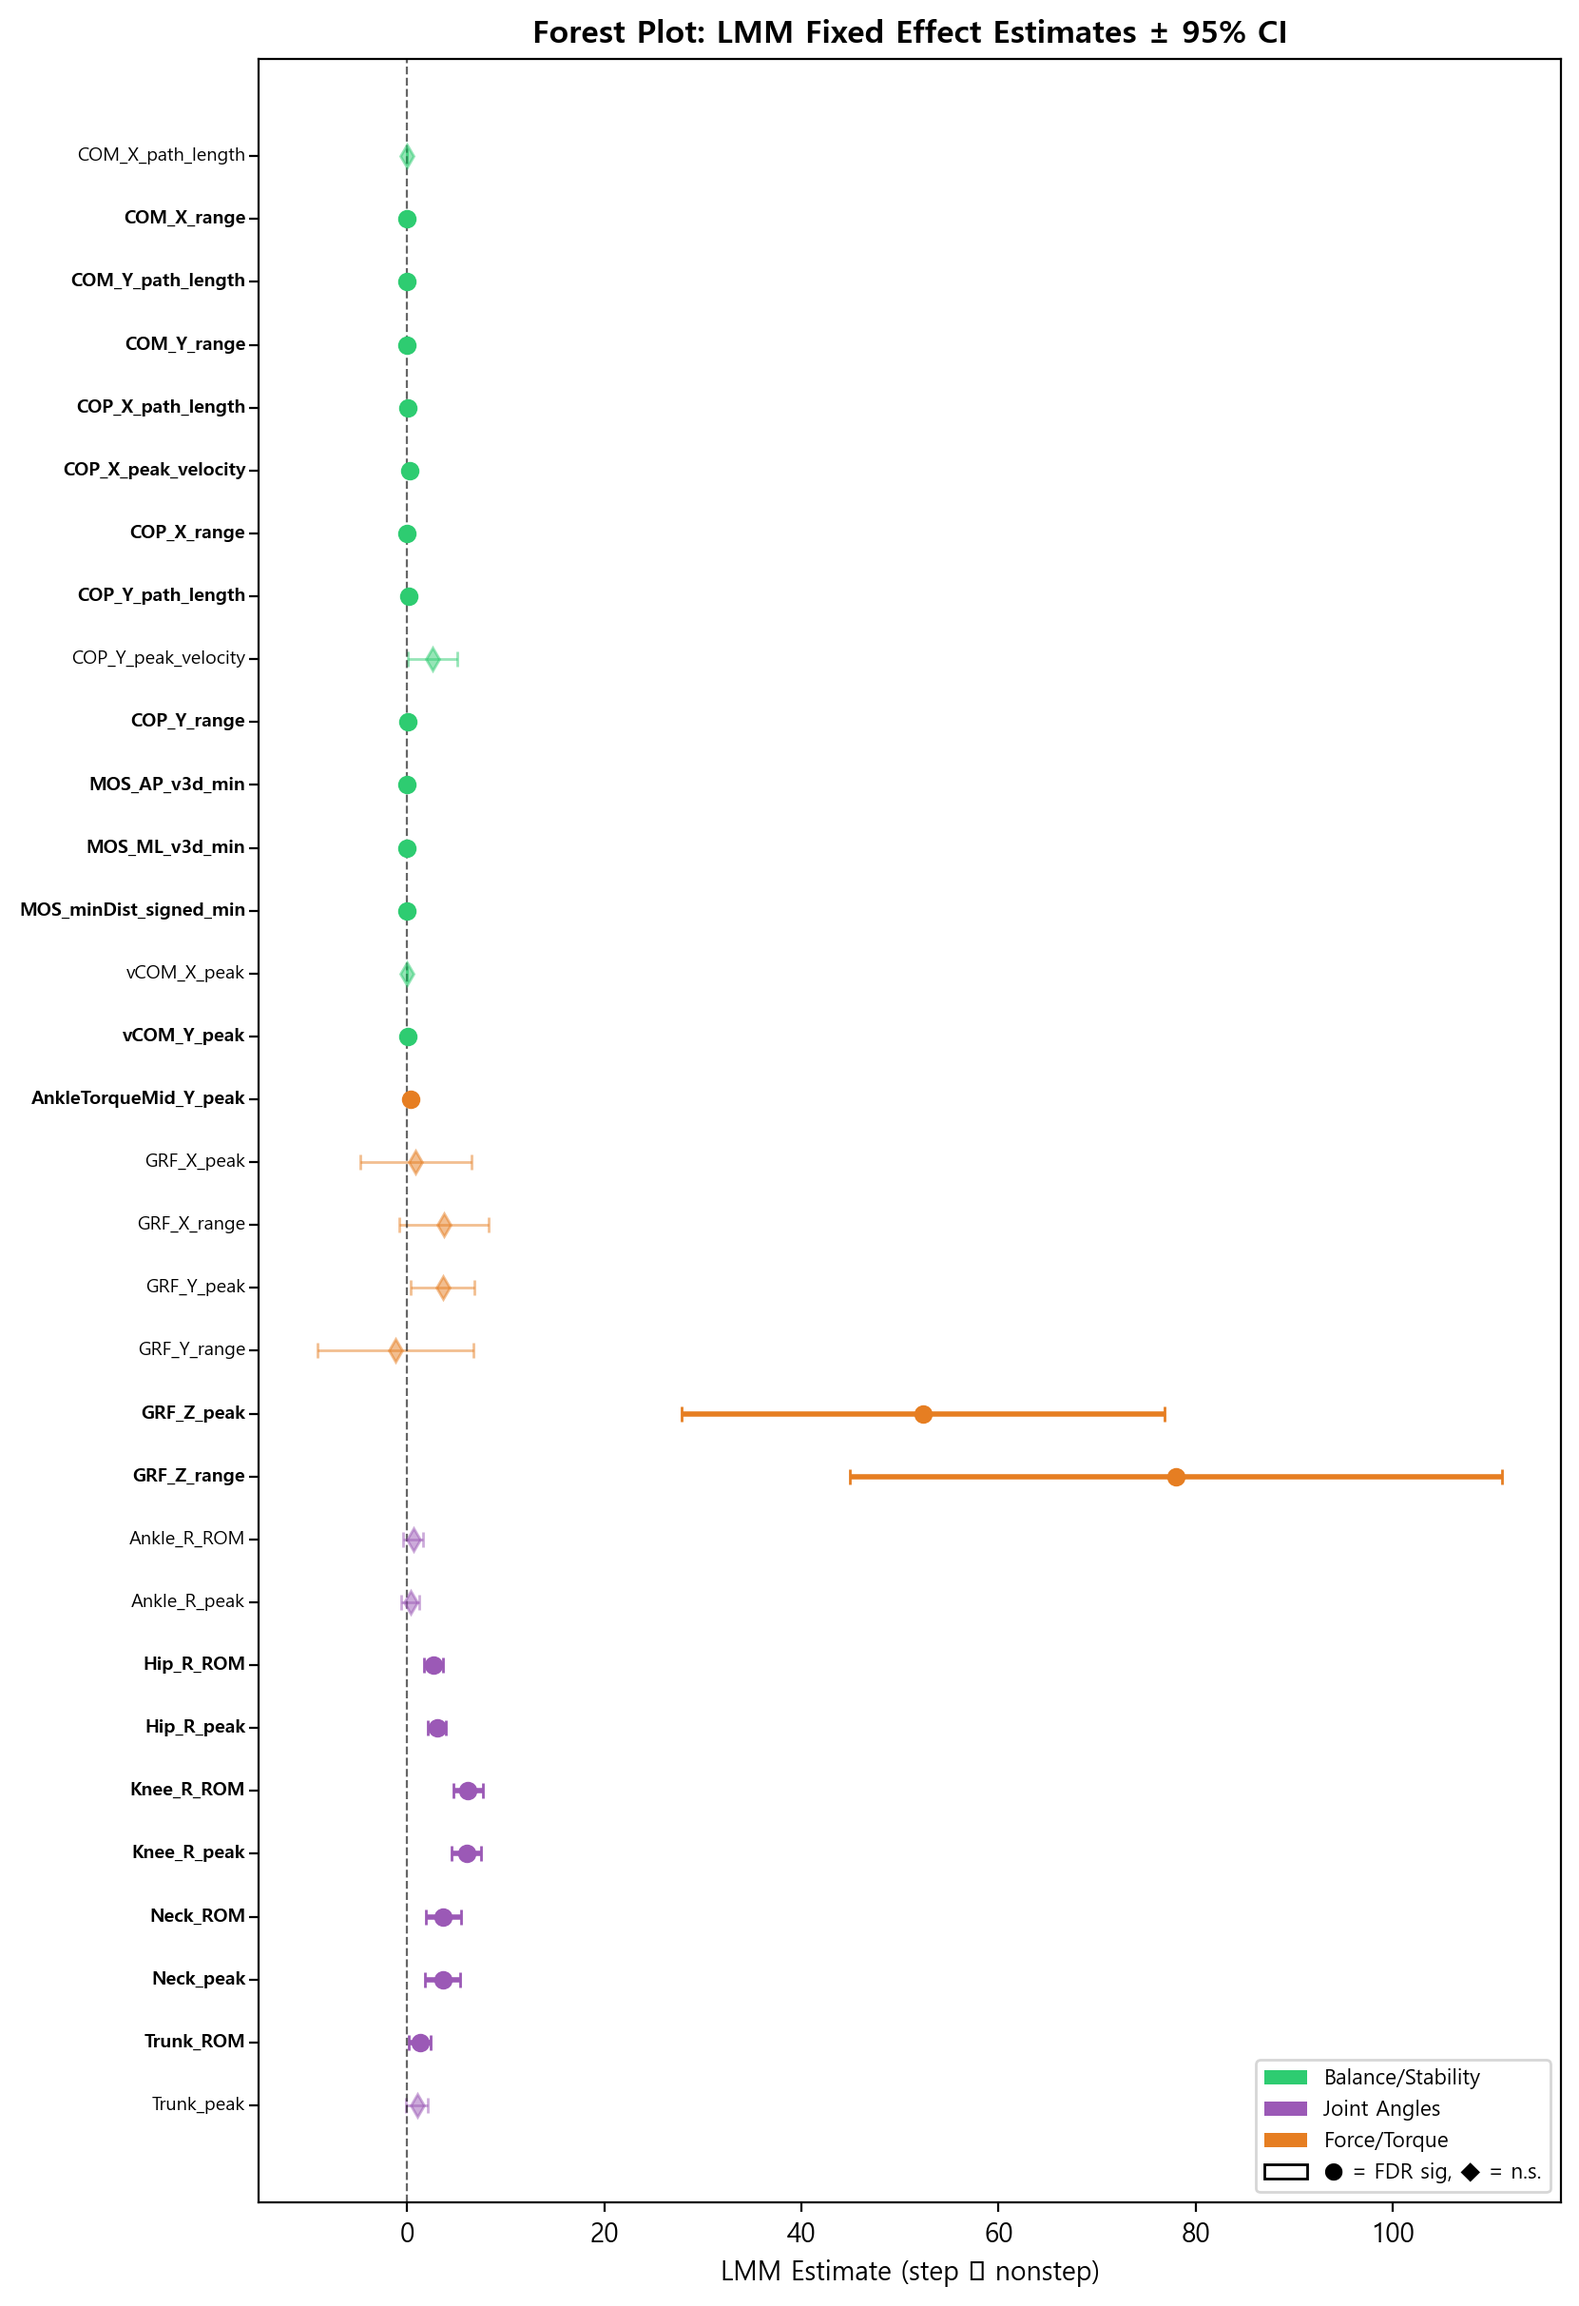
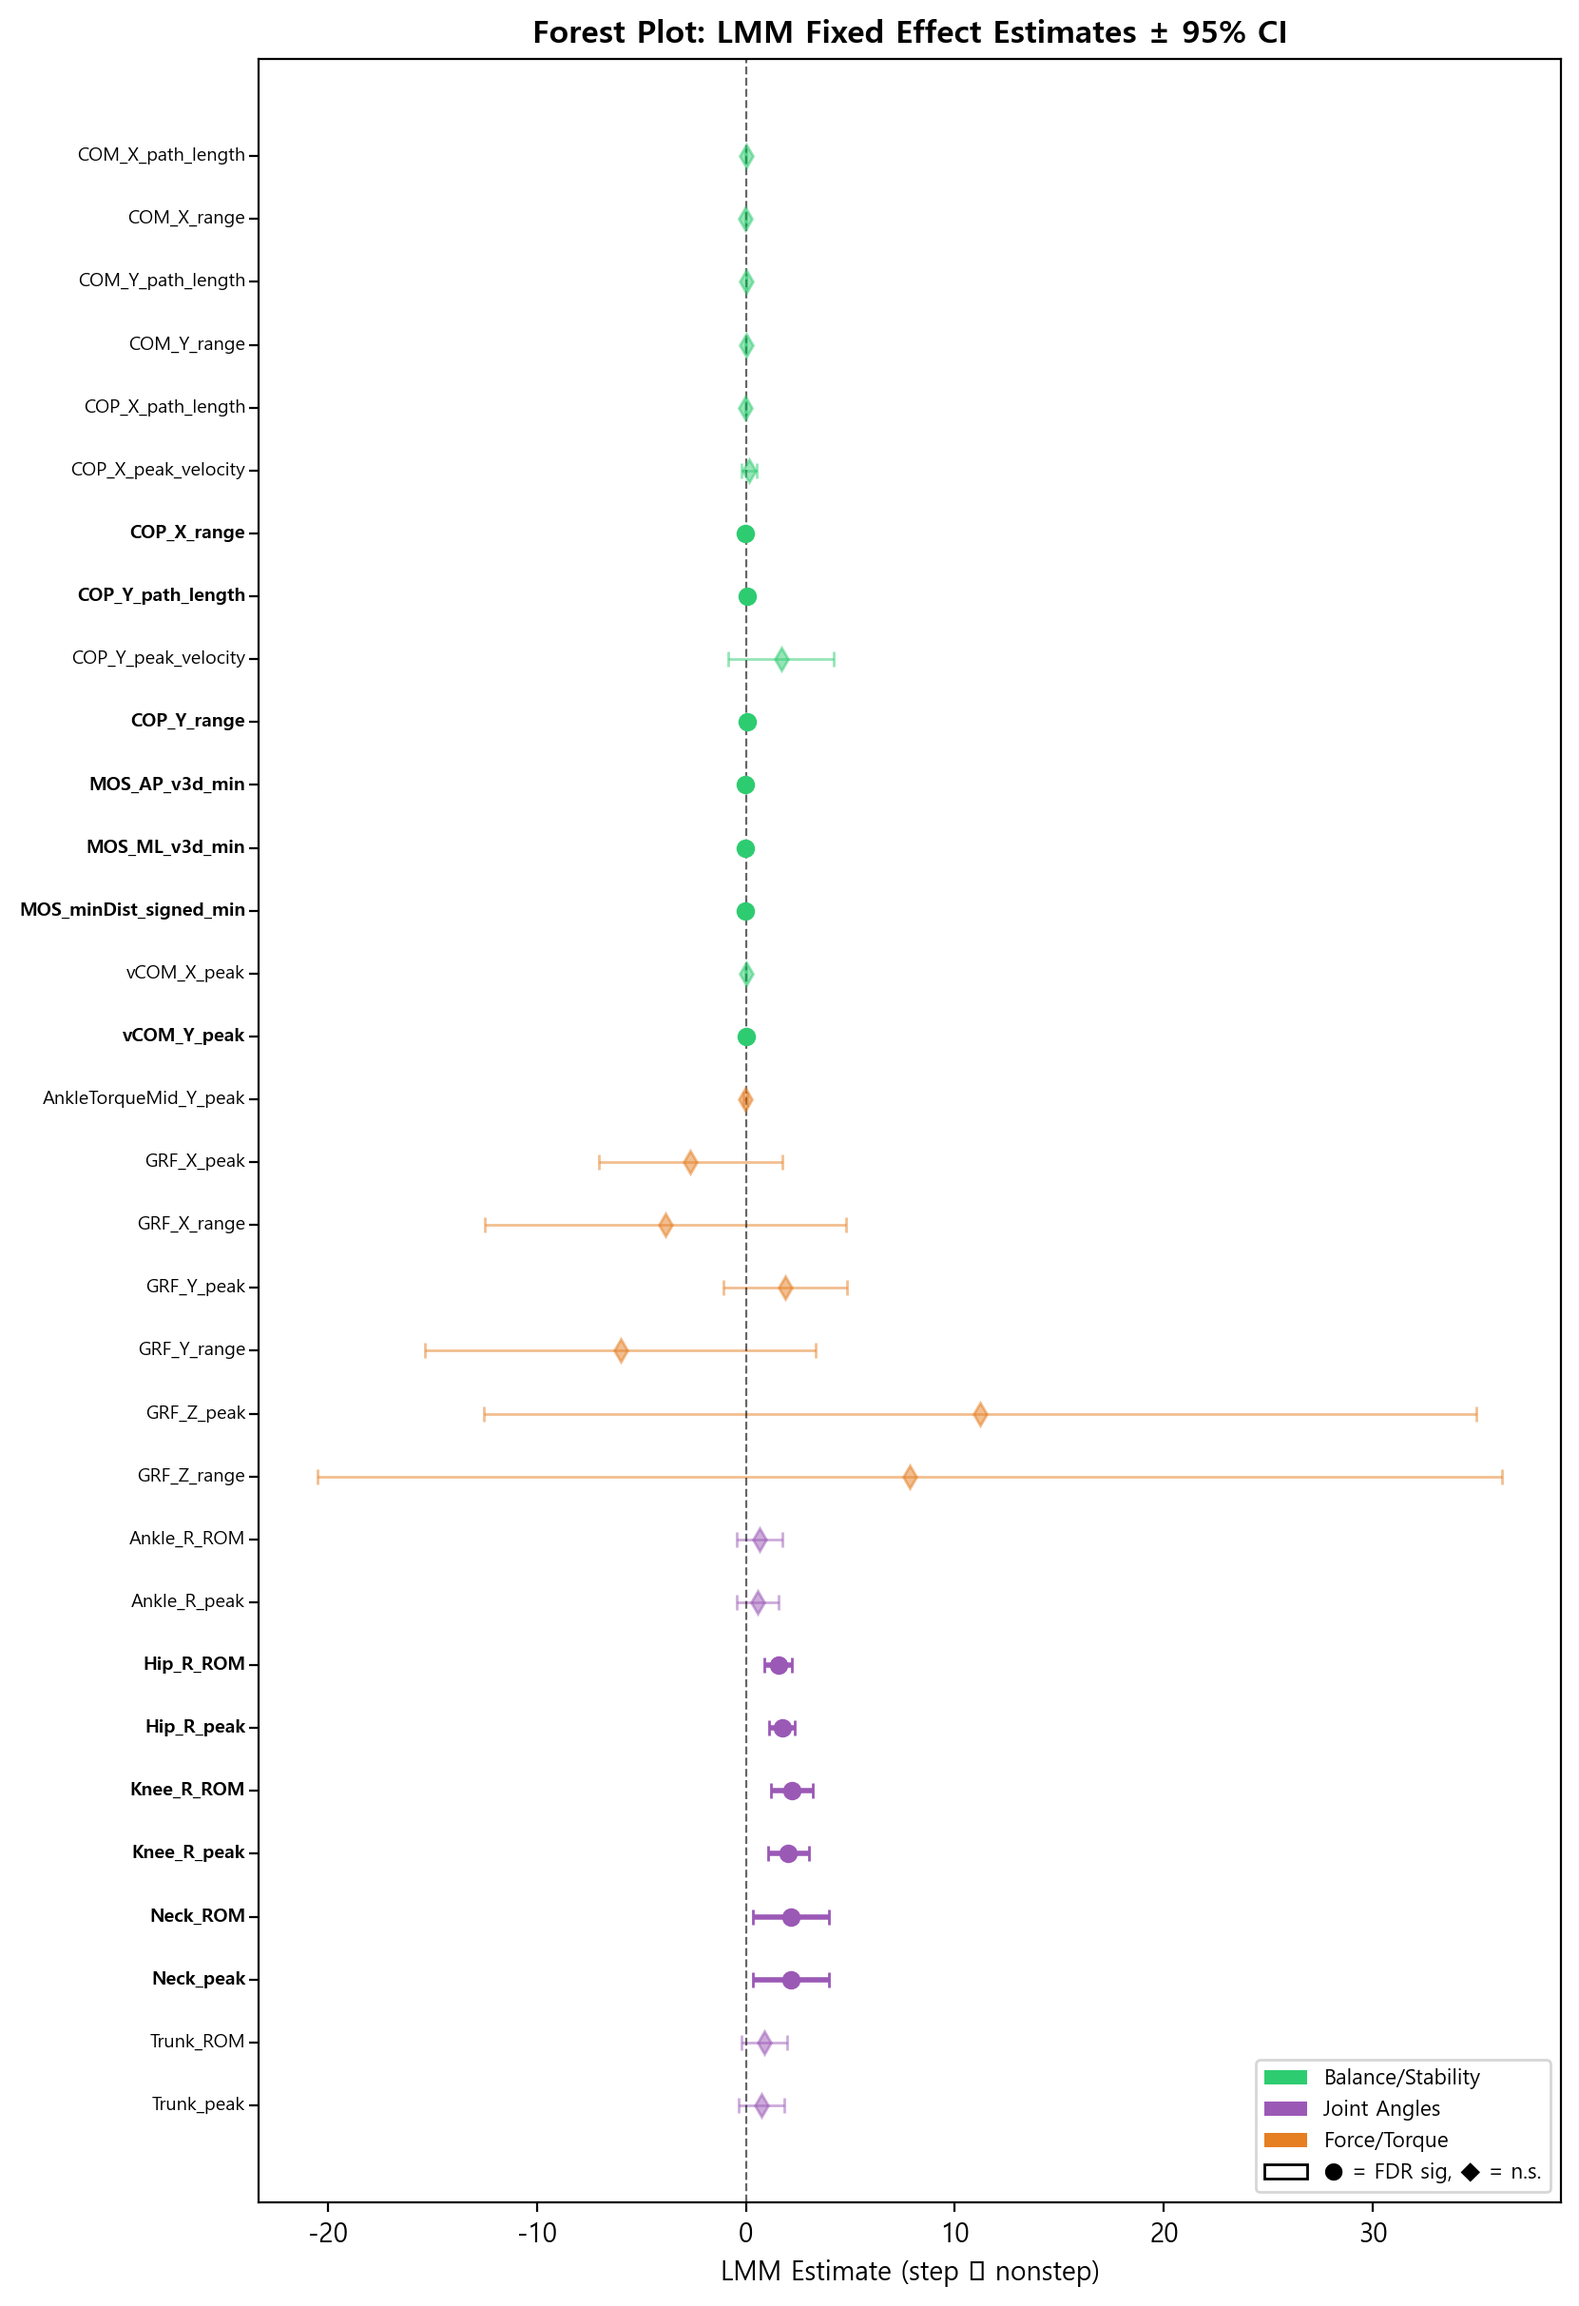
LMM 분석 시간 구간을 고정 0-800ms에서 [platform_onset, step_onset]으로 변경
논문 방법론에 따라 분석 구간을 trial별 적응형 window로 수정하였다.
step trial은 실제 step_onset_local을, nonstep trial은 동일 (subject, velocity) 내
step trial의 평균 step_onset을 end_frame으로 사용한다.
결과: 22/32 → 13/32 FDR 유의. Force/Torque 차이가 CPA 구간에서 사라짐을 확인.

diff --git a/analysis/step_vs_nonstep_lmm/analyze_step_vs_nonstep_lmm.py b/analysis/step_vs_nonstep_lmm/analyze_step_vs_nonstep_lmm.py
@@ -6,6 +6,9 @@ balance recovery strategies under identical perturbation intensity?"
 Statistical method: Linear Mixed Model (LMM) with Satterthwaite df
   Model: DV ~ step_TF + (1|subject)
   Multiple comparison: Benjamini-Hochberg FDR per variable family
+  Analysis window: [platform_onset, step_onset] per trial
+    - step trials: actual step_onset_local
+    - nonstep trials: mean step_onset of same (subject, velocity) step trials
 
 Produces:
   - 3 publication-quality figures (saved alongside this script)
@@ -172,12 +175,18 @@ def load_platform_sheet(path: Path) -> pd.DataFrame:
 # ---------------------------------------------------------------------------
 
 def aggregate_trial_features(df: pl.DataFrame, specs: list[dict]) -> pl.DataFrame:
-    """Compute per-trial summary statistics for all DVs via polars group_by."""
+    """Compute per-trial summary statistics for all DVs via polars group_by.
 
-    # Filter time window: 0–800ms
+    Time window: [platform_onset_local, end_frame] per trial (MocapFrame units).
+    ``end_frame`` must already be joined to *df* before calling this function.
+    """
+
+    # Filter time window: [platform_onset, end_frame] per trial
     df_win = df.filter(
-        (pl.col("time_from_platform_onset_s") >= 0.0)
-        & (pl.col("time_from_platform_onset_s") <= 0.8)
+        pl.col("end_frame").is_not_null()
+    ).filter(
+        (pl.col("MocapFrame") >= pl.col("platform_onset_local"))
+        & (pl.col("MocapFrame") <= pl.col("end_frame"))
     )
 
     # Build aggregation expressions
@@ -203,6 +212,62 @@ def aggregate_trial_features(df: pl.DataFrame, specs: list[dict]) -> pl.DataFram
     return result
 
 
+def _compute_end_frames(df: pl.DataFrame, platform: pd.DataFrame) -> pd.DataFrame:
+    """Compute per-trial end_frame for the analysis window.
+
+    - step trials: end_frame = step_onset_local (actual step onset)
+    - nonstep trials: end_frame = mean(step_onset_local) of step trials
+      in the same (subject, velocity) group
+
+    Returns a pandas DataFrame with [subject, velocity, trial, end_frame].
+    """
+    # Extract per-trial step_onset_local
+    trials = (
+        df.select(TRIAL_KEYS + ["step_onset_local"])
+        .group_by(TRIAL_KEYS)
+        .agg(pl.col("step_onset_local").drop_nulls().first().alias("step_onset_local"))
+        .sort(TRIAL_KEYS)
+        .to_pandas()
+    )
+    trials["subject"] = trials["subject"].astype(str).str.strip()
+    trials["trial"] = pd.to_numeric(trials["trial"], errors="coerce").astype("Int64")
+    trials["velocity"] = pd.to_numeric(trials["velocity"], errors="coerce")
+
+    # Join step_TF
+    plat_sub = platform[["subject", "velocity", "trial", "step_TF"]].copy()
+    trials = trials.merge(plat_sub, on=TRIAL_KEYS, how="left")
+
+    # end_frame: step → step_onset_local, nonstep → mean
+    trials["end_frame"] = np.nan
+    step_mask = (trials["step_TF"] == "step") & trials["step_onset_local"].notna()
+    trials.loc[step_mask, "end_frame"] = trials.loc[step_mask, "step_onset_local"]
+
+    # Mean step_onset per (subject, velocity)
+    step_means = (
+        trials.loc[step_mask]
+        .groupby(["subject", "velocity"])["step_onset_local"]
+        .mean()
+        .reset_index()
+        .rename(columns={"step_onset_local": "mean_step_onset"})
+    )
+
+    needs_end = trials["end_frame"].isna()
+    if needs_end.any():
+        trials = trials.merge(step_means, on=["subject", "velocity"], how="left")
+        fill_mask = needs_end & trials["mean_step_onset"].notna()
+        trials.loc[fill_mask, "end_frame"] = trials.loc[fill_mask, "mean_step_onset"]
+        trials.drop(columns=["mean_step_onset"], inplace=True)
+
+    trials["end_frame"] = trials["end_frame"].round().astype("Int64")
+
+    n_missing = trials["end_frame"].isna().sum()
+    if n_missing > 0:
+        print(f"  Warning: {n_missing} trials with no computable end_frame (dropped)")
+    trials = trials.dropna(subset=["end_frame"]).reset_index(drop=True)
+
+    return trials[TRIAL_KEYS + ["step_TF", "end_frame"]]
+
+
 def load_and_prepare(csv_path: Path, xlsm_path: Path, specs: list[dict]) -> pd.DataFrame:
     """Load, filter, aggregate, join step_TF. Returns 1-row-per-trial DataFrame."""
 
@@ -213,7 +278,15 @@ def load_and_prepare(csv_path: Path, xlsm_path: Path, specs: list[dict]) -> pd.D
     print("  Loading platform sheet...")
     platform = load_platform_sheet(xlsm_path)
 
-    print("  Aggregating to trial-level features (0–800ms window)...")
+    # Compute per-trial end_frame (step_onset or subject-velocity mean)
+    print("  Computing per-trial end_frame [platform_onset → step_onset]...")
+    end_frames = _compute_end_frames(df, platform)
+
+    # Join end_frame to main timeseries for per-trial windowing
+    end_pl = pl.from_pandas(end_frames[TRIAL_KEYS + ["end_frame"]])
+    df = df.join(end_pl, on=TRIAL_KEYS, how="left")
+
+    print("  Aggregating to trial-level features [platform_onset, step_onset] window...")
     trial_pl = aggregate_trial_features(df, specs)
     trial_df = trial_pl.to_pandas()
 
@@ -222,9 +295,10 @@ def load_and_prepare(csv_path: Path, xlsm_path: Path, specs: list[dict]) -> pd.D
     trial_df["velocity"] = pd.to_numeric(trial_df["velocity"], errors="coerce")
     trial_df["trial"] = pd.to_numeric(trial_df["trial"], errors="coerce").astype("Int64")
 
-    # Join step_TF
-    plat_sub = platform[["subject", "velocity", "trial", "step_TF"]].copy()
-    trial_df = trial_df.merge(plat_sub, on=TRIAL_KEYS, how="left")
+    # Join step_TF from end_frames (already computed)
+    trial_df = trial_df.merge(
+        end_frames[TRIAL_KEYS + ["step_TF"]], on=TRIAL_KEYS, how="left"
+    )
 
     # Keep only step/nonstep
     trial_df = trial_df[trial_df["step_TF"].isin(["step", "nonstep"])].reset_index(drop=True)

diff --git a/.claude/execplans/step_vs_nonstep_lmm.md b/.claude/execplans/step_vs_nonstep_lmm.md
@@ -38,8 +38,11 @@ Skills used: `analysis-report`, `pingouin-excel-stat-analysis` (FDR reference on
   Evidence: `UnicodeEncodeError: 'cp949' codec can't encode character '\ufffd'`
   Solution: `conda run --no-capture-output` 플래그로 해결
 
-- Observation: 22/32 변수 FDR 유의. ML 방향 변수(COM_Y, COP_Y, MOS_ML)가 가장 강한 효과
-  Evidence: MOS_ML_v3d_min의 estimate = -0.0294가 모든 MoS 변수 중 최대
+- Observation: (v1, 0-800ms) 22/32 변수 FDR 유의 → (v2, adaptive window) 13/32로 감소
+  Evidence: Force/Torque family 3/7→0/7. GRF/torque 차이는 step onset 이후에만 존재함이 확인됨
+
+- Observation: COP_X_range는 nonstep에서 유의하게 크다 (estimate=-0.0092)
+  Evidence: nonstep이 AP 방향 COP 보상(fixed-support strategy)을 더 적극적으로 사용함을 시사
 
 ---
 
@@ -59,6 +62,10 @@ Skills used: `analysis-report`, `pingouin-excel-stat-analysis` (FDR reference on
 
 - Decision: analysis-report skill 적용 — Excel/CSV 출력 없음, figures + stdout + report.md만 생성
   Rationale: 사용자가 analysis-report skill 사용을 명시적으로 요청
+  Date/Author: 2026-02-19
+
+- Decision: 분석 시간 구간을 고정 0-800ms → [platform_onset, step_onset] per-trial adaptive window로 변경
+  Rationale: 논문 방법론에서 CPA 구간(platform onset ~ step onset)을 분석 시간대로 정의. Nonstep trial은 동일 (subject, velocity) 내 step trial의 평균 step_onset을 대입
   Date/Author: 2026-02-19
 
 ---
